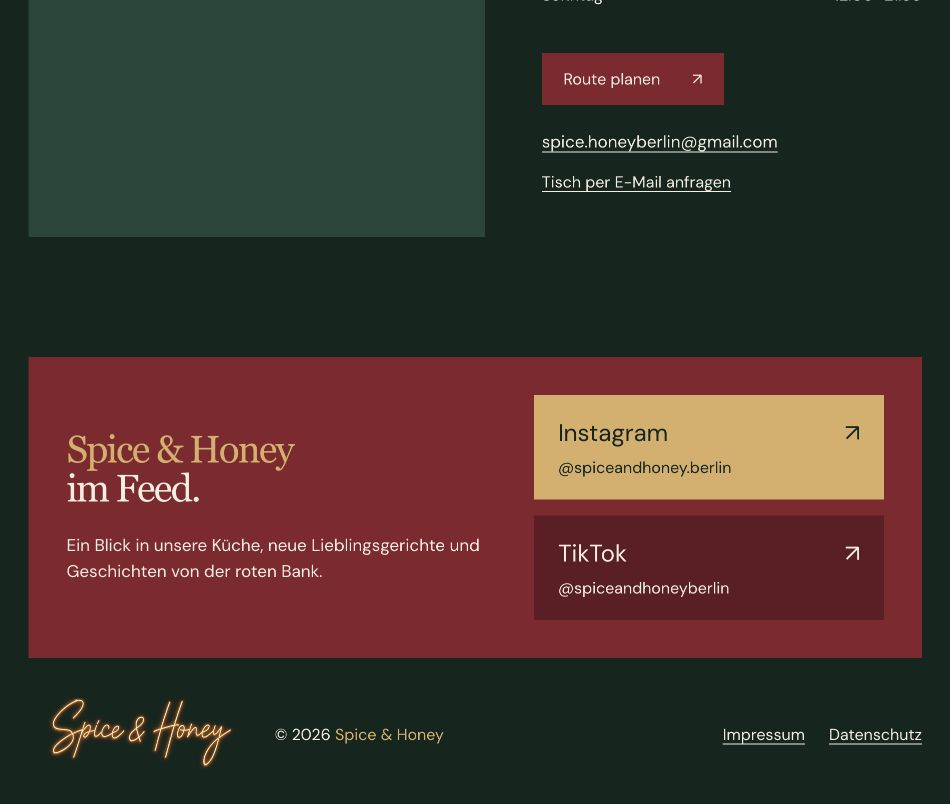
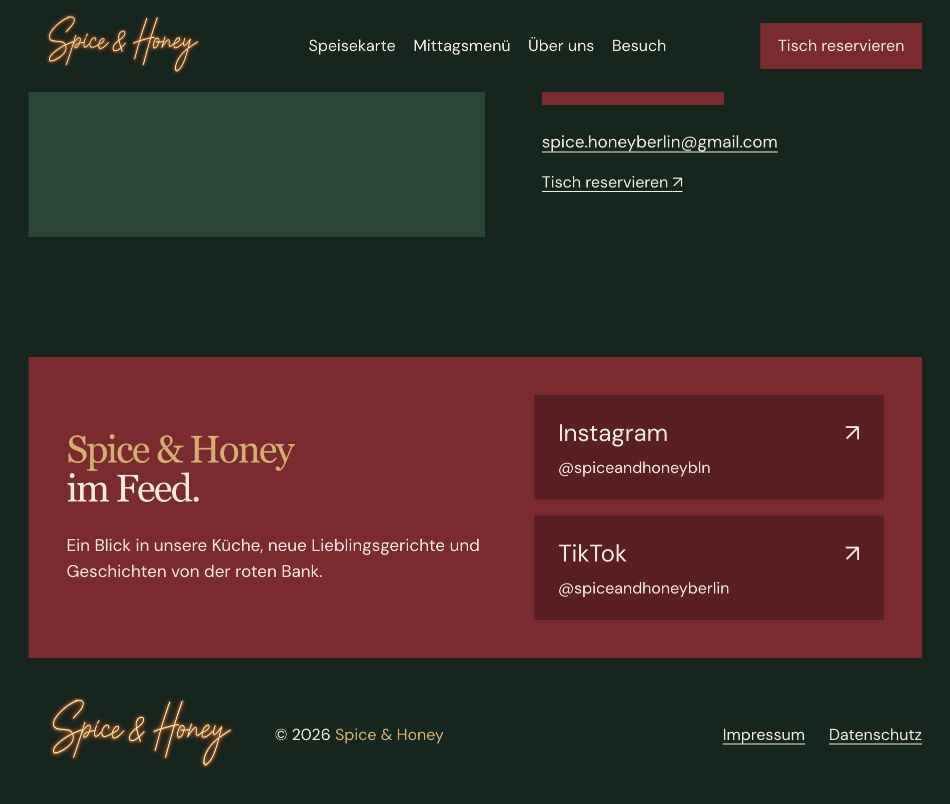
Update Instagram profile and add ready-to-use profile copy and links

diff --git a/index.html b/index.html
@@ -141,7 +141,7 @@
           <p data-reveal>Ein Blick in unsere Küche, neue Lieblingsgerichte und Geschichten von der roten Bank.</p>
         </div>
         <div class="social-channels" aria-label="Unsere Social-Media-Kanäle" data-reveal>
-          <a class="social-channel" href="https://www.instagram.com/spiceandhoney.berlin/" target="_blank" rel="noopener noreferrer"><span class="channel-identity"><span>Instagram</span><span class="channel-handle">@spiceandhoney.berlin</span></span><span aria-hidden="true">↗</span></a>
+          <a class="social-channel" href="https://www.instagram.com/spiceandhoneybln/" target="_blank" rel="noopener noreferrer"><span class="channel-identity"><span>Instagram</span><span class="channel-handle">@spiceandhoneybln</span></span><span aria-hidden="true">↗</span></a>
           <a class="social-channel" href="https://www.tiktok.com/@spiceandhoneyberlin" target="_blank" rel="noopener noreferrer"><span class="channel-identity"><span>TikTok</span><span class="channel-handle">@spiceandhoneyberlin</span></span><span aria-hidden="true">↗</span></a>
         </div>
       </section>

diff --git a/docs/instagram-profil.md b/docs/instagram-profil.md
@@ -1,0 +1,57 @@
+# Instagram-Profil · Spice & Honey
+
+Kopierfertiger Entwurf für das vom Betreiber bestätigte Profil **@spiceandhoneybln**. Profiladresse: https://www.instagram.com/spiceandhoneybln/ . Die Website verweist bereits auf diese Adresse. Die folgenden Texte und Einstellungen wurden nicht im Instagram-Konto veröffentlicht.
+
+## Anzeigename
+
+**Spice & Honey | Asian Fusion Berlin**
+
+## Bio
+
+```text
+Vietnamesische Küche & Asian Fusion
+Brunch, Drinks & dein Platz auf der roten Bank.
+Plesser Str. 12 · Alt-Treptow
+Reservieren ↓
+```
+
+Die Reservierung ist der erste Profillink. Adresse und E-Mail zusätzlich in den geschäftlichen Kontaktinformationen eintragen, soweit die Profilansicht diese Felder anbietet. Kategorie: Restaurant. Telefonnummer ergänzen, sobald sie feststeht.
+
+## Links im Profil – in dieser Reihenfolge
+
+| Linktitel | Ziel |
+| --- | --- |
+| **Tisch reservieren** | https://live.tebi.co/ecom/reservations/119527_753027f09d9cb0acf2cecff39a4007ae61cdae2866c32d1fbc48e51e81a94f95 |
+| **Essen bestellen · Wolt** | https://wolt.com/de/deu/berlin/restaurant/spice-honey-2 |
+| **Auf TikTok entdecken** | https://www.tiktok.com/@spiceandhoneyberlin |
+
+Wolt ist die Lieferkarte und kann bei Preisen oder Angeboten von der Restaurantkarte abweichen. Deshalb den Link entsprechend benennen. Sobald die Restaurantwebsite eine öffentliche Adresse hat, diese als „Speisekarte & Besuch“ ergänzen; die lokale Vorschauadresse gehört nicht ins Instagram-Profil. Kein zusätzlicher Link-Sammeldienst ist für diese Ziele nötig.
+
+## Geschäftliche Kontaktdaten
+
+- Restaurant: Spice & Honey
+- Adresse: Plesser Straße 12, 12435 Berlin
+- E-Mail: spice.honeyberlin@gmail.com
+- Telefonnummer: noch nachzureichen
+
+## Story-Highlights
+
+| Titel | Was hinein gehört |
+| --- | --- |
+| **Speisekarte** | Gut lesbare aktuelle Restaurantkarte, Lieblingsgerichte und tatsächliche Portionen. |
+| **Lunch** | Heutige Tafel und wechselndes Mittagsangebot, mit eindeutigem Datum. Veraltete Angebote entfernen. |
+| **Brunch** | Süße und herzhafte Gerichte; die bestätigten Wochenendzeiten aus der Restaurantkommunikation übernehmen. |
+| **Die rote Bank** | Gastgeber, Geschichten aus dem Laden, Gerichte und persönliche Empfehlungen. |
+| **Besuch** | Eingang, Adresse, Öffnungszeiten und Reservierung per Tebi-Link. |
+
+Die Cover schlicht und zusammengehörig halten: Waldgrün #10271D, Honiggold #D9AE65, sparsame Akzente in Bankrot #85232D. Kurze, lesbare Titel statt sehr kleiner Beschriftungen auf den Coverbildern.
+
+## Drei Beiträge zum Anpinnen
+
+1. **Willkommen auf der roten Bank.** Karussell mit Gastraum, Gastgebern und einem Signature-Gericht. Textentwurf: „Vietnamesische Wurzeln, neue Ideen aus Asien und ein Platz für dich im Kungerkiez. Willkommen bei Spice & Honey. Du findest uns in der Plesser Straße 12 – deinen Tisch reservierst du über den Link im Profil.“
+2. **Was kommt auf deinen Tisch?** Karussell mit drei bis fünf tatsächlich angebotenen Speisen, je Bild ein Gericht mit Namen. Textentwurf: „Ein kleiner Teller zum Teilen oder deine eigene große Bowl? Entdecke unsere Karte und finde deinen nächsten Favoriten. Tisch reservieren und Lieferkarte: Links im Profil.“
+3. **Dein Besuch bei uns.** Karussell mit Fassade, roter Bank und einem übersichtlichen Infobild. Adresse und aktuelle Öffnungszeiten nennen, Tebi als Reservierungsweg zeigen. Textentwurf: „Mitten im Kungerkiez: Plesser Straße 12, Berlin-Alt-Treptow. Komm zum Essen, bleib auf einen Drink. Reservierungen über den Link im Profil.“
+
+## Profilbild
+
+Eine quadratische Datei mit eurer offiziellen goldenen Wortmarke auf Waldgrün verwenden. Genügend Abstand für den runden Beschnitt lassen und in kleiner Darstellung prüfen. Den Schriftzug nicht verzerren; falls er im kleinen Kreis unlesbar bleibt, später eine kompakte Logo-Variante für Social Media ausarbeiten.

diff --git a/docs/qa.md b/docs/qa.md
@@ -131,3 +131,11 @@ Der große gesetzte Schriftzug wurde durch dieselbe originale Logo-Datei wie im 
 - Aktive Kategorien (beispielsweise Asian Tapas) dauerhaft Gold #D9AE65 mit dunkelgrüner Schrift. Inaktive Kategorien und Bereichsreiter bei Hover oder sichtbarem Tastaturfokus Rot #85232D mit heller Schrift #F4EDE1. Aktive Auswahl bleibt auch bei Interaktion Gold.
 - Im Browser Asian Tapas ausgewählt, danach Hauptgerichte per Tab fokussiert. Berechnete Farben und Screenshot bestätigen Gold/Dunkelgrün für Auswahl und Rot/Creme für Fokus. Gemeinsame CSS-Regel für Hover und Fokus; Fokusrahmen bleibt sichtbar.
 - Build, Quell-Lint und git diff --check erfolgreich. Inspector 0 FAIL / 0 WARN bei 1440×900, 768×1024 und 390×844 mit den bestehenden drei begründeten Ausnahmen. Menüseiten-Screenshots der drei Größen angesehen.
+
+
+## Korrigiertes Instagram-Profil und Profiltexte
+
+- Auf Nutzerkorrektur Handle und Link auf @spiceandhoneybln / https://www.instagram.com/spiceandhoneybln/ umgestellt. QR-/Trackingparameter entfernt. Keine alte Instagram-Adresse mehr im Website-HTML; historische Berichte bleiben unverändert.
+- Browser-Snapshot bestätigt den sichtbaren Handle und das exakte Linkziel. Footer-Screenshot aktualisiert. Externes Profil war im Web-Lesewerkzeug nicht abrufbar; Grundlage ist die direkte Betreiberbestätigung.
+- Kopierfertiger Profilentwurf mit 127 Zeichen langer Bio, Anzeigename, Tebi-/Wolt-/TikTok-Links, Highlights und drei angepinnten Beiträgen in docs/instagram-profil.md erstellt. Nicht im Instagram-Konto veröffentlicht.
+- Build, Quell-Lint und git diff --check erfolgreich. Inspector: 0 FAIL / 0 WARN in 1440, 768 und 390 Pixeln mit den bestehenden drei begründeten Ausnahmen. Footer-Screenshots der drei Größen angesehen; neuer Handle passt ohne Überlauf.

diff --git a/docs/sources.md b/docs/sources.md
@@ -41,6 +41,6 @@ DM Sans: Colophon Foundry / Jonny Pinhorn, SIL Open Font License 1.1; lokale Liz
 
 - Nutzerwunsch: eigener Reiter für das wechselnde Mittagsmenü für Bürogäste, Beispiele aus den beschrifteten Tafeln ableiten. Im Rundgang DJI_20261107191740_0679_D.MP4 (ca. 00:14–00:32) stehen auf „Empfehlungen des Hauses“ Big Bao Burger, Golden Coconut Curry und Bún Bò Nam Bộ. Diese drei wurden als Beispiele aufgenommen, ausdrücklich keine garantierte tägliche Auswahl. Die Originalbilder der Tafeln bleiben lokal außerhalb des Repositories.
 - Die Tafel enthält auch Varianten- bzw. Mindestpreise. Diese werden im Lunchbereich entsprechend dem vorherigen Wunsch nach keiner „ab“-Preisanzeige nicht übernommen. Es gibt keine erfundenen festen Lunchpreise, Wochentage oder Angebotszeiten. Heutige Auswahl/Preise werden auf die Restauranttafel bezogen; eine E-Mail-Anfrage ist möglich.
-- Offizielle Instagram-URL direkt vom Nutzer geliefert: https://www.instagram.com/spiceandhoney.berlin/ . Der mitgelieferte Trackingparameter wurde entfernt.
+- Aktuelle offizielle Instagram-URL vom Nutzer korrigiert: https://www.instagram.com/spiceandhoneybln/ . Die frühere Adresse spiceandhoney.berlin wurde ersetzt; QR-/Trackingparameter wurden entfernt.
 - Offizielle TikTok-URL direkt vom Nutzer geliefert: https://www.tiktok.com/@spiceandhoneyberlin . Die mitgelieferten Trackingparameter wurden entfernt. Es wird nur verlinkt; keine eingebetteten Social-Feeds oder externen Skripte.
 - Die Plattformseiten waren im Recherchewerkzeug nicht lesbar. Die Nutzerangabe ist die Quelle der Profilzuordnung; es wird keine Prüfung der Profilinhalte behauptet.
